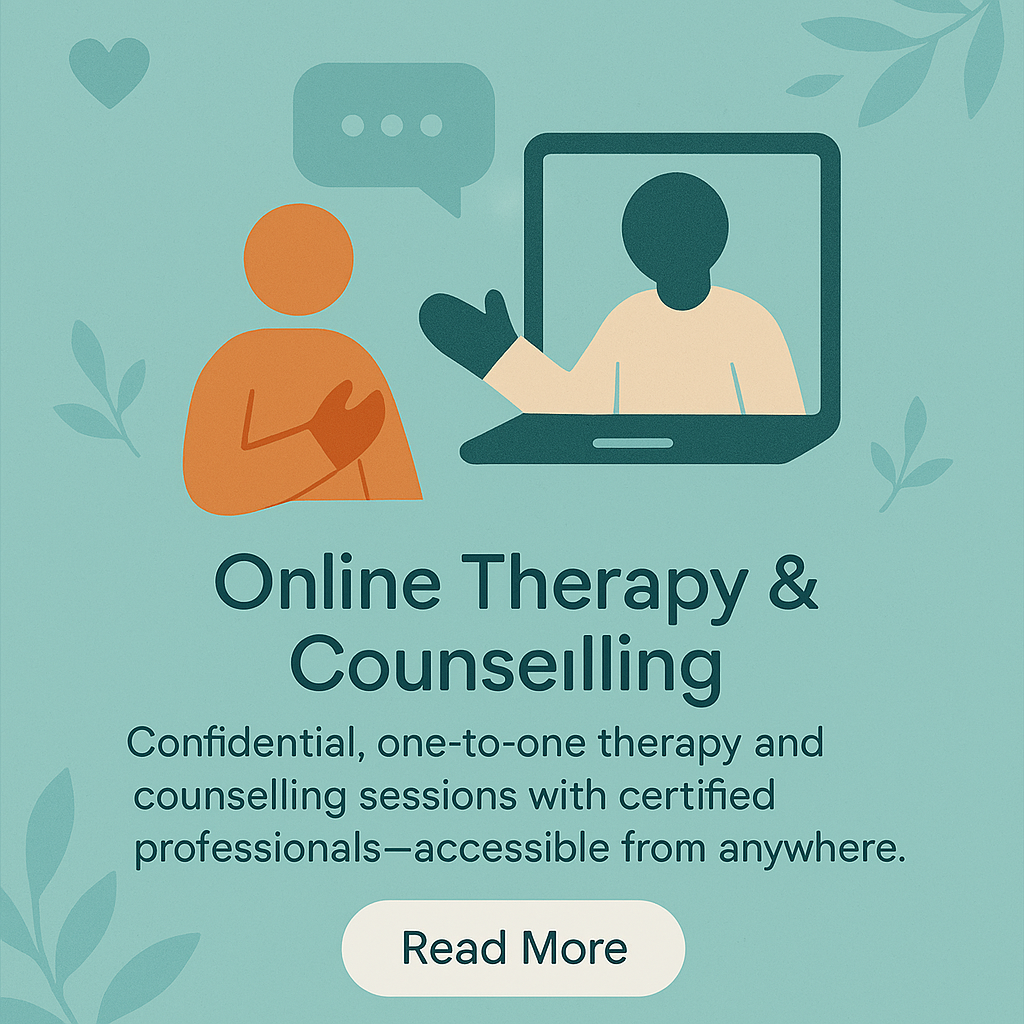
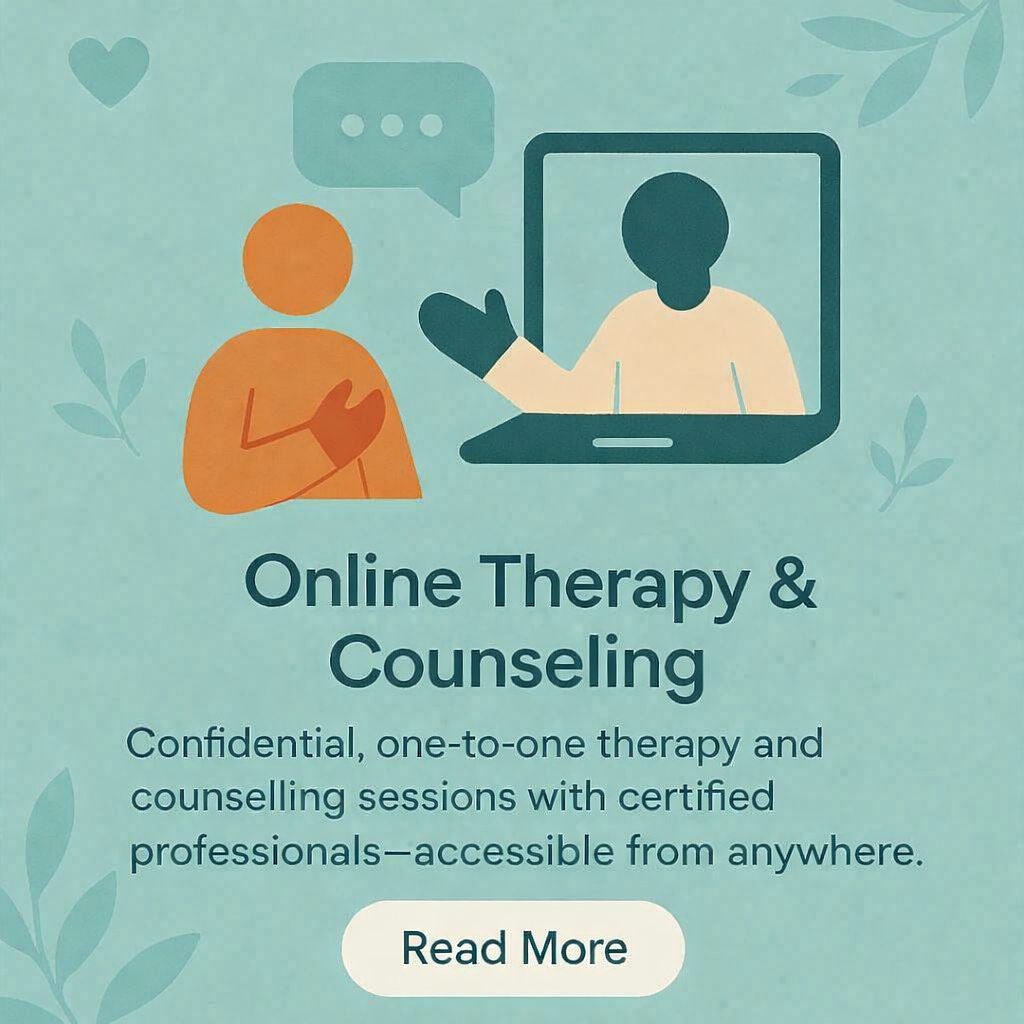
Cosmatics changes Home Welcome and Counselling pages

diff --git a/resources/views/modules/mod-ps/services/online-counselling.blade.php b/resources/views/modules/mod-ps/services/online-counselling.blade.php
@@ -4,7 +4,7 @@
     <!-- Hero Section -->
 <section class="relative h-80 flex items-start lg:items-center pt-24 lg:pt-32">
     <div class="absolute inset-0 -z-10">
-        <img src="{{ asset('images/welcome-page/hero-bg.png') }}" alt="Hero Background" class="w-full h-full object-cover object-center">
+        <img src="{{ asset('images/hero-bg.png') }}" alt="Hero Background" class="w-full h-full object-cover object-center">
         <div class="absolute inset-0 bg-gradient-to-r from-black/60 to-black/30"></div>
     </div>
 
@@ -15,7 +15,7 @@
                 <path stroke-linecap="round" stroke-linejoin="round" d="M3 9.75L12 3l9 6.75v11.25A1.5 1.5 0 0119.5 21H4.5A1.5 1.5 0 013 21V9.75z" />
             </svg>
             <span>Home</span>
-            <span class="text-white/60">›</span>
+            <span class="text-white/60">&rsaquo;</span>
             <span class="text-white font-semibold">Online Counselling</span>
         </div>
 
@@ -27,9 +27,7 @@
     </div>
 </section>
 
-    <!-- Navbar is in layouts/app.blade.php -->
-
-   
+    <!-- Navbar is in layouts/app.blade.php -->   
 
     <div class="container-fluid mx-auto pt-10 px-4 md:px-6 lg:px-4 bg-white min-h-screen">
         
@@ -39,92 +37,30 @@
             ensuring you receive the support and guidance you deserve.
         </p>
 
-        {{-- Services --}}
-        <section class="bg-white">
-            <div class="container mx-auto px-4 md:px-6 lg:px-12 pt-12">
-
-                @php
-                    $cards = [
-                        [
-                            'title' => 'Cognitive Behavioral Therapy (CBT)',
-                            'desc' =>
-                                'Focuses on identifying and changing negative thought patterns and behaviors. Effective for anxiety, depression, and stress management.',
-                                'image' => asset('images/therapy-types/Cognitive_Behavioral_Therapy_20251121_030950.png') 
-                        ],
-                        [
-                            'title' => 'Solution Focus Therapy',
-                            'desc' =>
-                                'Solution Focus Therapy with mindfulness practices. Ideal for individuals dealing with borderline personality disorder, self-harm, and emotional regulation issues.',
-                                'image' => asset('images/therapy-types/Solution_Focused_Therapy_20251121_034859.png')                        ],
-                        [
-                            'title' => 'Psychodynamic Therapy',
-                            'desc' =>
-                                'Explores unconscious processes and past experiences to understand current behavior. Helps with deep-seated emotional issues and relationship problems.',
-                                'image' => asset('images/therapy-types/Psychodynamic_Therapy_20251121_033104.png')
-                        ],
-                        [
-                            'title' => 'Humanistic Therapy',
-                            'desc' =>
-                                'Emphasizes personal growth and self-actualization. Encourages self-exploration and self-acceptance.',
-                                'image' => asset('images/therapy-types/Humanistic_Therapy_20251121_033547.png')
-                        ],
-                        [
-                            'title' => 'Couples Therapy',
-                            'desc' =>
-                                'Aims to improve communication and resolve conflicts within relationships. Supports couples in building stronger, healthier connections.',
-                                'image' => asset('images/therapy-types/Couples_Therapy_20251121_034002.png')
-                        ],
-                    ];
-                @endphp
-
-                <div class="grid grid-cols-1 sm:grid-cols-2 md:grid-cols-3 gap-8">
-                    @foreach ($cards as $card)
-                        <div x-data="{ hover: false }" @mouseenter="hover = true" @mouseleave="hover = false"
-                            class="bg-white rounded-2xl shadow-md p-6 text-center relative transform transition duration-300"
-                            :class="{ 'scale-105 shadow-xl': hover }">
-
-                            <a href="">
-                                <div class="flex justify-center -mt-12 mb-4">
-                                    <div class="bg-white p-4">
-                                        <img src="{{ asset($card['image']) }}" alt="{{ $card['title'] }}"
-                                            class="w-40 h-33">
-                                    </div>
-                                </div>
-
-                                <h3 class="text-xl font-semibold text-gray-900">
-                                    {{ $card['title'] }}
-                                </h3>
-
-                                <p class="mt-3 text-gray-600 text-sm leading-relaxed">
-                                    {{ $card['desc'] }}
-                                </p>
-                            </a>
-
-                        </div>
-                    @endforeach
-                </div>
-
-            </div>
-        </section>
-
-
-        <br><br>
-
-        {{-- Why Choose Us --}}
         <section class="bg-gradient-to-b from-gray-50 to-white py-16">
             <div class="container mx-auto px-4 md:px-6 lg:px-12">
-                <h2 class="text-3xl font-bold text-gray-900 mb-10 text-center md:text-left">Why Choose Us?</h2>
-                <p class="text-gray-700 text-base md:text-lg leading-relaxed max-w-5xl mx-auto mb-12 text-justify">
-                    "Our aim is to be one of the most outstanding online therapy provision. Therefore, we aim to match
-                    you with a client within 15 minutes of you signing up. We understand that there can be long waiting
-                    times to see a therapist. Such experience can sometimes escalate the distress that you are
-                    experiencing. We at Justmyhealth, further aim for you to be able to access therapy within two days
-                    of signing up. We work with you according to your presenting issues, and therefore the best
-                    therapist is allocated, to facilitate your needs. We aim to have resources, such as worksheets,
-                    which will explain more about the issues that you are experiencing. Please acknowledge that we do
-                    have your interest at heart, therefore please use the accessible email to reach out to us, if there
-                    is a complaint or any other concerns. "
-                </p>
+                <div class="grid grid-cols-1 lg:grid-cols-2 gap-10 items-start mb-14">
+                    <div class="overflow-hidden rounded-3xl shadow-lg">
+                        <img
+                            src="{{ asset('images/welcome-page/therapyjourney.png') }}"
+                            alt="Therapy Journey"
+                            class="w-full h-auto object-cover">
+                    </div>
+                    <div>
+                        <h2 class="text-3xl font-bold text-gray-900 mb-6">Why Choose Us?</h2>
+                        <p class="text-gray-700 text-base md:text-lg leading-relaxed text-justify">
+                            "Our aim is to be one of the most outstanding online therapy provision. Therefore, we aim to match
+                            you with a client within 15 minutes of you signing up. We understand that there can be long waiting
+                            times to see a therapist. Such experience can sometimes escalate the distress that you are
+                            experiencing. We at Justmyhealth, further aim for you to be able to access therapy within two days
+                            of signing up. We work with you according to your presenting issues, and therefore the best
+                            therapist is allocated, to facilitate your needs. We aim to have resources, such as worksheets,
+                            which will explain more about the issues that you are experiencing. Please acknowledge that we do
+                            have your interest at heart, therefore please use the accessible email to reach out to us, if there
+                            is a complaint or any other concerns. "
+                        </p>
+                    </div>
+                </div>
 
                 <div class="grid grid-cols-1 sm:grid-cols-2 lg:grid-cols-2 gap-8">
                     @foreach ([
@@ -194,7 +130,7 @@
                     </p>
                     <p class="text-gray-600 leading-relaxed">
                         The cost of therapy ranges from
-                        <span class="font-semibold text-indigo-600">£50 to £70 per week</span>
+                        <span class="font-semibold text-indigo-600">&pound;50 to &pound;70 per week</span>
                         (billed every 4 weeks). Variation depends on location, type of therapy,
                         preferences, and therapist availability.
                     </p>
@@ -207,25 +143,25 @@
                 <div
                     class="bg-white rounded-2xl shadow-lg border-t-4 border-indigo-600 p-6 flex flex-col justify-between hover:shadow-2xl transition">
                     <div class="text-center">
-                        <h3 class="text-xl font-semibold text-gray-800">£50 to £70</h3>
+                        <h3 class="text-xl font-semibold text-gray-800">&pound;50 to &pound;70</h3>
                         <p class="text-gray-500">per weekly session</p>
                     </div>
 
                     <ul class="mt-6 space-y-3 text-gray-700">
-                        <li class="flex items-center gap-2"><span class="text-green-500">✔</span> End-to-End Encryption
+                        <li class="flex items-center gap-2"><span class="text-green-500">&#10004;</span> End-to-End Encryption
                         </li>
-                        <li class="flex items-center gap-2"><span class="text-green-500">✔</span> Confidential Messaging
+                        <li class="flex items-center gap-2"><span class="text-green-500">&#10004;</span> Confidential Messaging
                         </li>
-                        <li class="flex items-center gap-2"><span class="text-green-500">✔</span> Private Scheduling
+                        <li class="flex items-center gap-2"><span class="text-green-500">&#10004;</span> Private Scheduling
                         </li>
-                        <li class="flex items-center gap-2"><span class="text-green-500">✔</span> Secure Document
+                        <li class="flex items-center gap-2"><span class="text-green-500">&#10004;</span> Secure Document
                             Sharing</li>
-                        <li class="flex items-center gap-2"><span class="text-green-500">✔</span> Session Recording
+                        <li class="flex items-center gap-2"><span class="text-green-500">&#10004;</span> Session Recording
                             Controls</li>
-                        <li class="flex items-center gap-2"><span class="text-green-500">✔</span> Emergency Support</li>
-                        <li class="flex items-center gap-2"><span class="text-green-500">✔</span> Virtual Waiting Rooms
+                        <li class="flex items-center gap-2"><span class="text-green-500">&#10004;</span> Emergency Support</li>
+                        <li class="flex items-center gap-2"><span class="text-green-500">&#10004;</span> Virtual Waiting Rooms
                         </li>
-                        <li class="flex items-center gap-2"><span class="text-green-500">✔</span> Therapist Verification
+                        <li class="flex items-center gap-2"><span class="text-green-500">&#10004;</span> Therapist Verification
                         </li>
                     </ul>
 

diff --git a/resources/views/modules/mod-ps/general/welcome.blade.php b/resources/views/modules/mod-ps/general/welcome.blade.php
@@ -1,8 +1,7 @@
 <!-- resources/views/home.blade.php -->
 <x-app-layout>
-
     <!-- HERO AREA -->
-    <section class="relative min-h-screen z-0 overflow-hidden">
+    <section class="relative min-h-screen flex flex-col justify-end z-0">
 
         <!-- Background Image -->
         <div class="absolute inset-0 -z-10">
@@ -13,7 +12,7 @@
         <!-- Navbar   is in resources/views/layouts/app.blade.php -->
 
         <!-- Hero Content -->
-        <div class="relative z-10 w-full px-3 max-w-4xl text-white pt-32 pb-12">
+        <div class="absolute top-32 left-0 z-10 w-full px-3 max-w-4xl text-white">
 
             <!-- Intro -->
             <div class="text-center">
@@ -33,11 +32,9 @@
             <!-- Introduction -->
             <div class="pb-14 text-justify">
                 <div class="container px-4 sm:px-8 xl:px-4">
-                    <div class="mx-auto max-w-5xl">
-                        <p class="mb-4 text-gray-800 text-lg md:text-xl lg:text-xl xl:text-2xl leading-8 md:leading-9 break-words">JustMy.Health is the dynamic online health platform where social media meets health and wellness through education, empowerment, and personalized support.</p>
-                        <p class="mb-4 text-gray-800 text-lg md:text-xl lg:text-xl xl:text-2xl leading-8 md:leading-9 break-words">JustMy.Health provides consumers with preventive and curative healthcare access, online counselling and therapy services, and tailored dietary programs—giving everyone the tools they need to improve their health, wellness, and longevity.</p>
-                        <p class="mb-4 text-gray-800 text-lg md:text-xl lg:text-xl xl:text-2xl leading-8 md:leading-9 break-words">With global coverage and locally tailored support, JustMy.Health serves both individuals and organizations. Our platform empowers consumers directly while also delivering scalable B2B solutions for employers, clinics, wellness providers, and community partners seeking to elevate health outcomes worldwide.</p>
-                    </div>
+                    <p class="mb-4 text-gray-800 text-lg md:text-xl lg:text-lg xl:text-xl leading-8 md:leading-9 break-words">JustMy.Health is the dynamic online health platform where social media meets health and wellness through education, empowerment, and personalized support.</p>
+                    <p class="mb-4 text-gray-800 text-lg md:text-xl lg:text-lg xl:text-xl leading-8 md:leading-9 break-words">JustMy.Health provides consumers with preventive and curative healthcare access, online counselling and therapy services, and tailored dietary programs—giving everyone the tools they need to improve their health, wellness, and longevity.</p>                    
+                    <p class="mb-4 text-gray-800 text-lg md:text-xl lg:text-lg xl:text-xl leading-8 md:leading-9 break-words">With global coverage and locally tailored support, JustMy.Health serves both individuals and organizations. Our platform empowers consumers directly while also delivering scalable B2B solutions for employers, clinics, wellness providers, and community partners seeking to elevate health outcomes worldwide.</p>
                 </div>
             </div>
             <!-- end of introduction -->
@@ -47,36 +44,47 @@
 
     </section>
 
-    
     {{-- Services  --}}
-    <section class="py-12 bg-white">
+    <section class="pt-20 pb-14">
         <div class="container mx-auto px-6 lg:px-12">
-            <div class="grid grid-cols-1 md:grid-cols-3 gap-8">
+            <div class="max-w-5xl mx-auto text-center mb-12 lg:mb-16">
+                <h2 class="text-4xl md:text-5xl lg:text-6xl font-semibold tracking-tight mb-6">
+                    Therapeutic Practitioners
+                </h2>
+                <p class="text-sm sm:text-base md:text-lg lg:text-xl leading-relaxed text-[#243b45] mb-6 max-w-4xl mx-auto">
+                    Therapeutic Practitioners on JustMy.Health provide safe, supportive, and professional guidance to help users improve their mental, emotional, and overall wellbeing.
+                </p>
+                <p class="text-sm sm:text-base md:text-lg lg:text-xl leading-relaxed text-[#243b45] max-w-5xl mx-auto">
+                    Each practitioner is fully verified, qualified, and committed to delivering ethical, person-centred care. Whether users need short-term support, structured therapy, or ongoing wellbeing guidance, our practitioners offer trusted, confidential services designed to empower healthier, more resilient lives.
+                </p>
+            </div>
+
+            <div class="grid grid-cols-1 md:grid-cols-3 gap-8 xl:gap-10">
 
                 <!-- Card 1 -->
-                <a href="{{ route('online-counselling') }}">
+                <a href="{{ route('online-counselling') }}" class="group">
                     <div x-data="{ hover: false }" @mouseenter="hover = true" @mouseleave="hover = false"
-                        class="rounded-2xl shadow-md text-center relative transform transition duration-300 bg-cover bg-center bg-no-repeat aspect-square"
+                        class="rounded-[1.75rem] shadow-[0_24px_60px_-28px_rgba(16,106,124,0.45)] text-center relative transform transition duration-300 bg-cover bg-center bg-no-repeat aspect-square overflow-hidden ring-1 ring-[#9ed9d7]/40"
                         style="background-image: url('{{ asset('images/welcome-page/Therapy-Counselling-Tile-Graphic-1.png') }}')"
-                        :class="{ 'scale-105 shadow-xl': hover }">
+                        :class="{ 'scale-[1.03] shadow-xl': hover }">
                     </div>
                 </a>
 
                 <!-- Card 2 -->
-                <a href="{{ route('personal-training') }}">
+                <a href="{{ route('personal-training') }}" class="group">
                     <div x-data="{ hover: false }" @mouseenter="hover = true" @mouseleave="hover = false"
-                        class="rounded-2xl shadow-md text-center relative transform transition duration-300 bg-cover bg-center bg-no-repeat aspect-square"
+                        class="rounded-[1.75rem] shadow-[0_24px_60px_-28px_rgba(16,106,124,0.45)] text-center relative transform transition duration-300 bg-cover bg-center bg-no-repeat aspect-square overflow-hidden ring-1 ring-[#9ed9d7]/40"
                         style="background-image: url('{{ asset('images/welcome-page/Personal-Training-Tile-Graphic-1.png') }}')"
-                        :class="{ 'scale-105 shadow-xl': hover }">
+                        :class="{ 'scale-[1.03] shadow-xl': hover }">
                     </div>
                 </a>
 
                 <!-- Card 3 -->
-                <a href="{{ route('eating-for-health') }}">
+                <a href="{{ route('eating-for-health') }}" class="group">
                     <div x-data="{ hover: false }" @mouseenter="hover = true" @mouseleave="hover = false"
-                        class="rounded-2xl shadow-md text-center relative transform transition duration-300 bg-cover bg-center bg-no-repeat aspect-square"
+                        class="rounded-[1.75rem] shadow-[0_24px_60px_-28px_rgba(16,106,124,0.45)] text-center relative transform transition duration-300 bg-cover bg-center bg-no-repeat aspect-square overflow-hidden ring-1 ring-[#9ed9d7]/40"
                         style="background-image: url('{{ asset('images/welcome-page/Dietitian-Healthy-Eating-Tile-Graphic-1.png') }}')"
-                        :class="{ 'scale-105 shadow-xl': hover }">
+                        :class="{ 'scale-[1.03] shadow-xl': hover }">
                     </div>
                 </a>
 
@@ -84,6 +92,46 @@
         </div>
     </section>
     {{-- End of Services --}}
+
+    <section class="pb-24">
+        <div class="container mx-auto px-6 lg:px-12">
+            <div class="mx-auto max-w-6xl rounded-[2rem] bg-white px-6 py-10 md:px-10 md:py-12 shadow-[0_32px_90px_-48px_rgba(20,97,109,0.45)] ring-1 ring-[#d7eceb]">
+            <div class="max-w-5xl">
+                <h2 class="text-3xl md:text-4xl lg:text-5xl font-semibold mb-4">The Guided Path:</h2>
+                <p class="text-sm sm:text-base md:text-lg lg:text-xl leading-relaxed text-[#243b45] mb-8">
+                    The Guided Path is a simple, people-centric journey designed to help you take control of your health through connection, collaboration, and shared knowledge. It begins by connecting you with peers, health providers, NGOs, and volunteers who understand your specific condition.
+                </p>
+            </div>
+
+            <div class="grid grid-cols-2 lg:grid-cols-4 gap-4 md:gap-6 mb-8 md:mb-10">
+                <div class="bg-gradient-to-br from-[#0f89a6] to-[#0b7087] rounded-2xl p-4 md:p-5 shadow-[0_18px_40px_-24px_rgba(15,137,166,0.9)]">
+                    <img src="{{ asset('images/welcome-page/jmh-guided-path-engage-1.png') }}" alt="Engage" class="w-full h-auto rounded-sm bg-white">
+                </div>
+                <div class="bg-gradient-to-br from-[#0f89a6] to-[#0b7087] rounded-2xl p-4 md:p-5 shadow-[0_18px_40px_-24px_rgba(15,137,166,0.9)]">
+                    <img src="{{ asset('images/welcome-page/jmh-guided-path-empower-1.png') }}" alt="Empower" class="w-full h-auto rounded-sm bg-white">
+                </div>
+                <div class="bg-gradient-to-br from-[#0f89a6] to-[#0b7087] rounded-2xl p-4 md:p-5 shadow-[0_18px_40px_-24px_rgba(15,137,166,0.9)]">
+                    <img src="{{ asset('images/welcome-page/jmh-guided-path-educate-1.png') }}" alt="Educate" class="w-full h-auto rounded-sm bg-white">
+                </div>
+                <div class="bg-gradient-to-br from-[#0f89a6] to-[#0b7087] rounded-2xl p-4 md:p-5 shadow-[0_18px_40px_-24px_rgba(15,137,166,0.9)]">
+                    <img src="{{ asset('images/welcome-page/jmh-guided-path-connect-1.png') }}" alt="Connect" class="w-full h-auto rounded-sm bg-white">
+                </div>
+            </div>
+
+            <div class="max-w-6xl space-y-6 text-sm sm:text-base md:text-lg lg:text-xl leading-relaxed text-[#243b45]">
+                <p>
+                    Through active engagement with these trusted networks, you gain access to real guidance and support.
+                </p>
+                <p>
+                    As you learn from their experience, you educate yourself with reliable, lived information - empowering you to improve your wellbeing and give back by sharing what you've learned with the wider community.
+                </p>
+                <p>
+                    Together, these four steps - Connect, Engage, Educate, Empower - form a continuous cycle of growth that strengthens both individual health and collective resilience.
+                </p>
+            </div>
+            </div>
+        </div>
+    </section>
 
 
     <!-- Scripts specific to this page -->

diff --git a/routes/web.php b/routes/web.php
@@ -558,8 +558,8 @@ Route::controller(SearchMatchQuestionsController::class)
     ->group(function () {
         Route::get('mod-10/mb/my-collateral-documents', 'index')->name('collateral.index');
         Route::post('mod-10/mb/my-collateral-documents/upload', 'upload')->name('collateral.upload');
-        Route::get('mod-10/mb/my-collateral-documents/download/{type}/{file}', 'download')->name('collateral.download');
-        Route::delete('mod-10/mb/my-collateral-documents/delete/{type}/{file}', 'delete')->name('collateral.delete');
+        Route::get('mod-10/mb/my-collateral-documents/download/{type}/{folder}/{file}', 'download')->name('collateral.download');
+        Route::delete('mod-10/mb/my-collateral-documents/delete/{type}/{folder}/{file}', 'delete')->name('collateral.delete');
     });
 
 